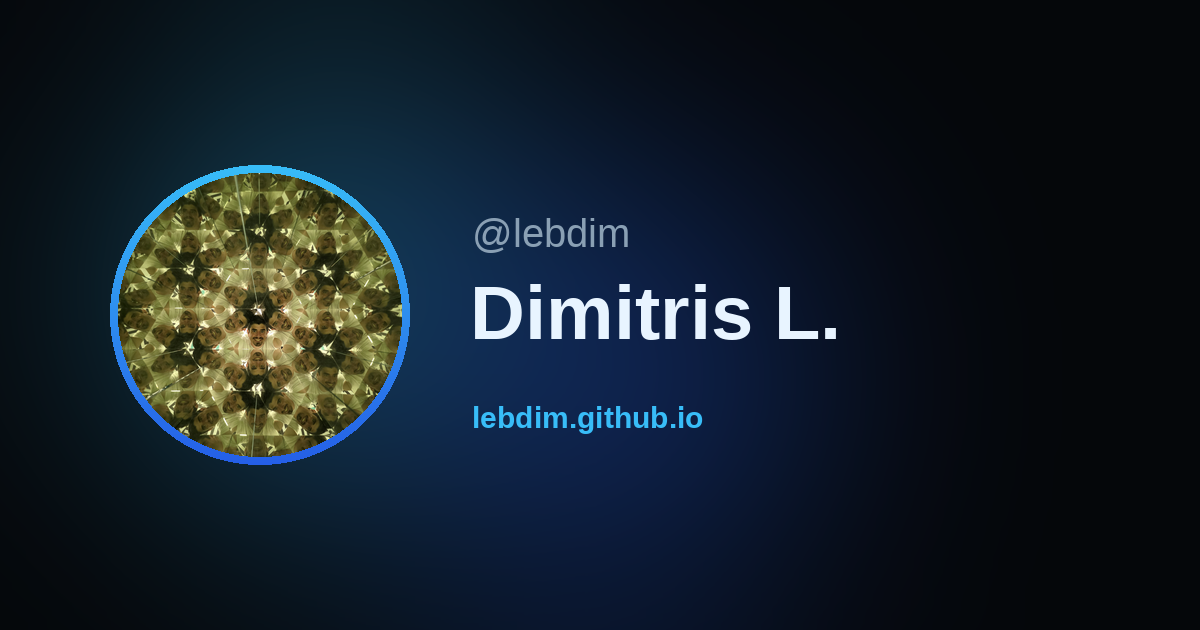
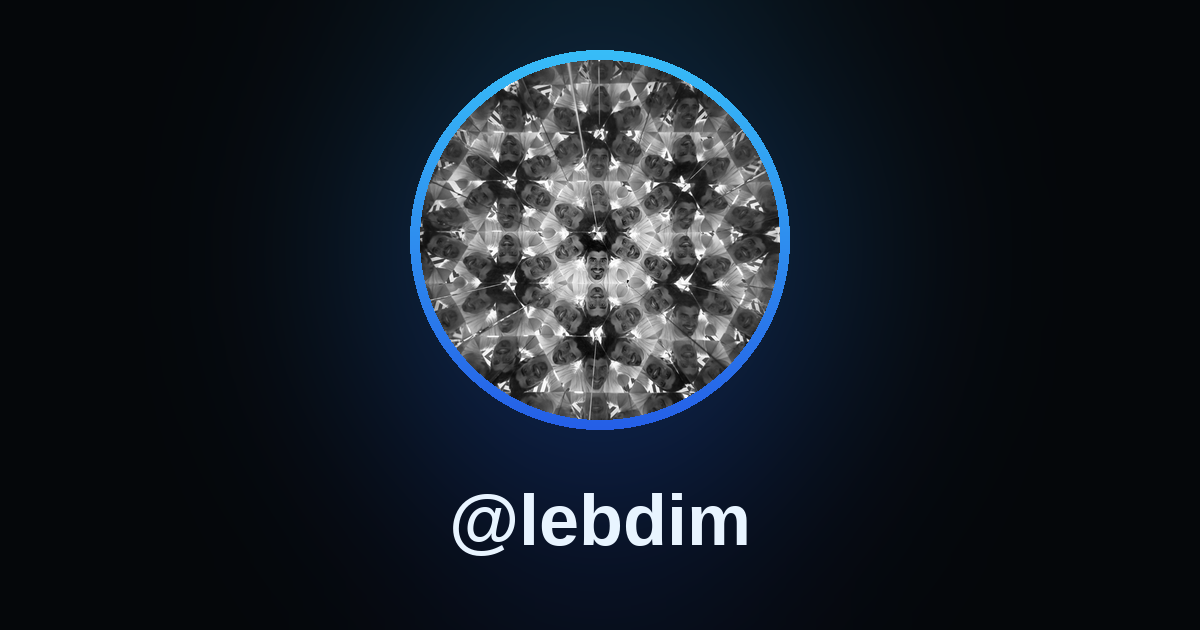
update page

diff --git a/index.html b/index.html
@@ -10,8 +10,8 @@
 <meta name="theme-color" content="#05070a">
 <meta http-equiv="Content-Security-Policy" content="default-src 'none'; img-src 'self' data:; style-src 'unsafe-inline'; script-src 'sha256-IKa/A5Dfk2iFdmATrmMx7c9ko7CezWybujjzAGPPaqI='; base-uri 'none'; form-action 'none'">
 <link rel="canonical" href="https://lebdim.github.io/">
-<link rel="icon" type="image/png" sizes="192x192" href="favicon.png">
-<link rel="apple-touch-icon" href="favicon.png">
+<link rel="icon" type="image/png" sizes="192x192" href="favicon.png?v=ef5dca85a7">
+<link rel="apple-touch-icon" href="favicon.png?v=ef5dca85a7">
 <meta property="og:type" content="profile">
 <meta property="og:site_name" content="Dimitris L.">
 <meta property="og:title" content="Dimitris L. (@lebdim)">
@@ -19,8 +19,8 @@
 <meta property="og:url" content="https://lebdim.github.io/">
 <meta property="og:locale" content="en_US">
 <meta property="profile:username" content="lebdim">
-<meta property="og:image" content="https://lebdim.github.io/og.png?v=4352259aee">
-<meta property="og:image:secure_url" content="https://lebdim.github.io/og.png?v=4352259aee">
+<meta property="og:image" content="https://lebdim.github.io/og.png?v=bd3cd20bad">
+<meta property="og:image:secure_url" content="https://lebdim.github.io/og.png?v=bd3cd20bad">
 <meta property="og:image:type" content="image/png">
 <meta property="og:image:width" content="1200">
 <meta property="og:image:height" content="630">
@@ -28,7 +28,7 @@
 <meta name="twitter:card" content="summary_large_image">
 <meta name="twitter:title" content="Dimitris L. (@lebdim)">
 <meta name="twitter:description" content="Software Engineer &amp; Automation Enthusiast">
-<meta name="twitter:image" content="https://lebdim.github.io/og.png?v=4352259aee">
+<meta name="twitter:image" content="https://lebdim.github.io/og.png?v=bd3cd20bad">
 <meta name="twitter:image:alt" content="Dimitris L. (@lebdim)">
 <style>
 :root{--bg:#05070a;--fg:#e8f4ff;--mut:#8aa0b4;--a:#38bdf8;--b:#2563eb;--card:rgba(255,255,255,.045);--line:rgba(255,255,255,.09)}
@@ -68,7 +68,7 @@ dialog svg{width:220px;height:220px;border-radius:12px;display:block;margin:0 au
 <body>
 <main>
 <header>
-<div class="av"><img src="avatar.png" alt="Dimitris L." width="112" height="112"></div>
+<div class="av"><img src="avatar.png?v=a2c12ab352" alt="Dimitris L." width="112" height="112"></div>
 <div class="handle">@lebdim</div>
 <h1>Dimitris L.</h1>
 <p class="bio">Software Engineer &amp;
